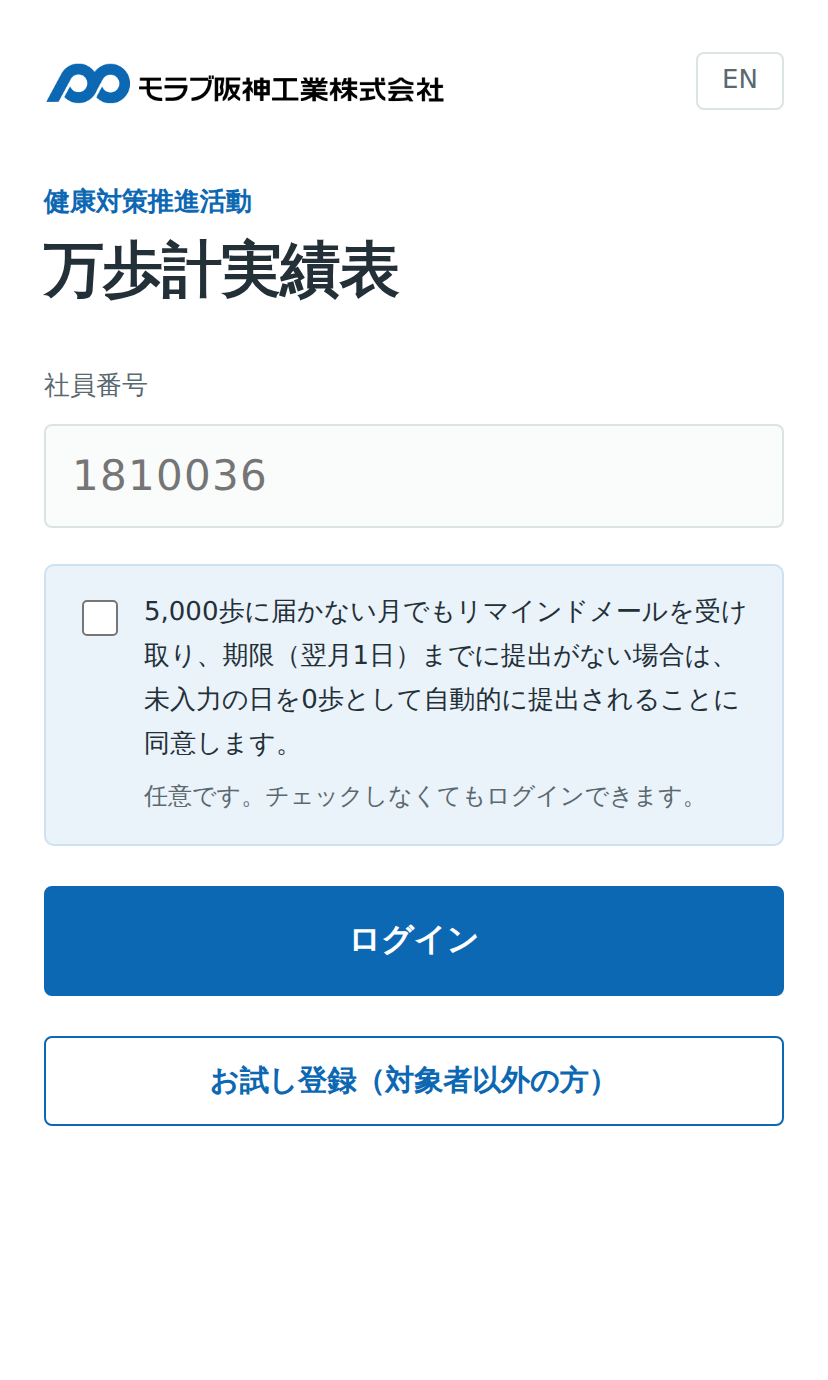
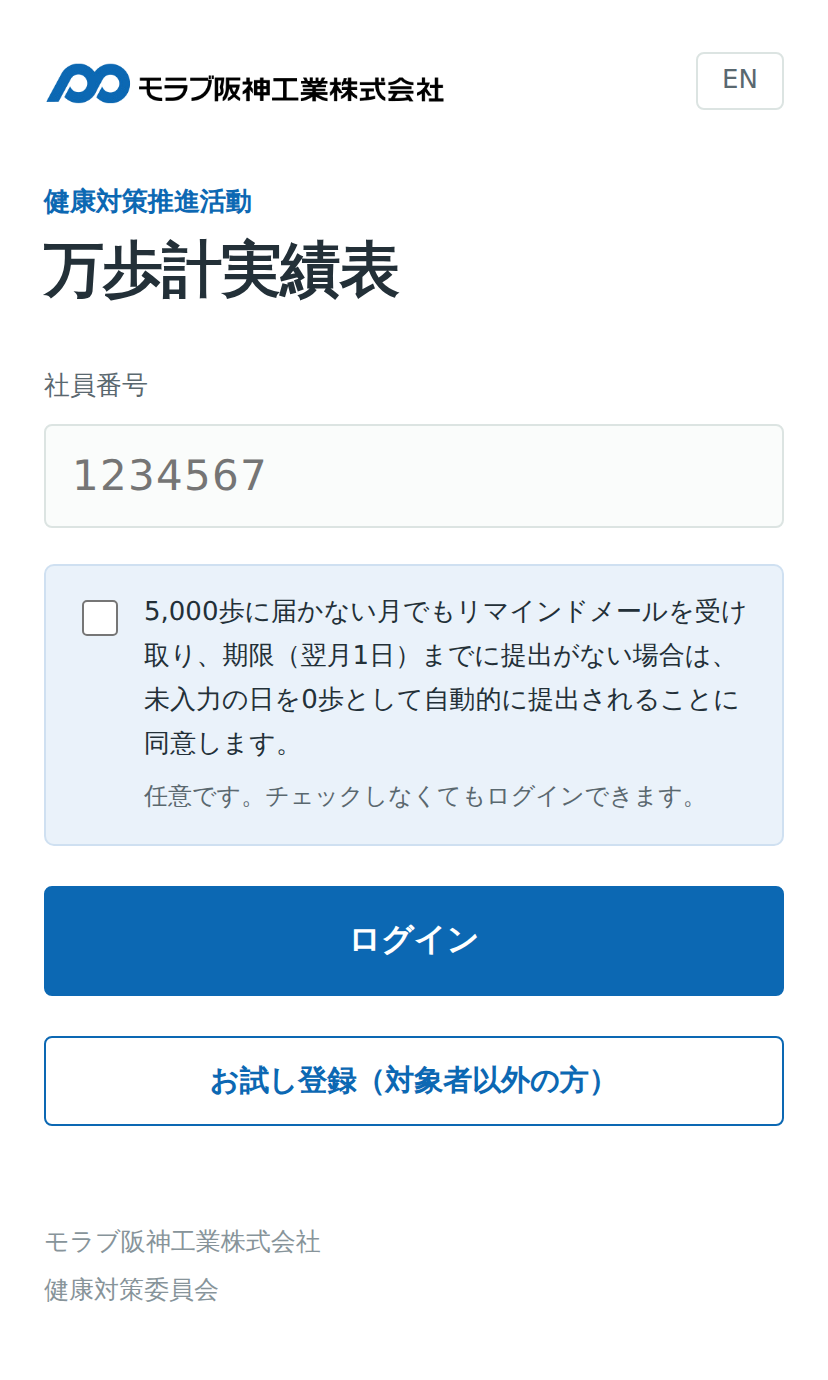
Retake the manual's login screenshot without the real employee number
The de-identification pass replaced the roster data in the screenshots
but missed this one: the number in the sign-in box is the input
placeholder, not roster data, so it kept showing a real colleague's
employee number. The placeholder in the app is now 1234567, so the
screenshot retaken against the current build carries that instead.

Also drops a README gap note that contradicted the demo-roster section
above it.

Claude-Session: https://claude.ai/code/session_01XMP6QTktT2ZH2brYbujzUP

Changed region(s): [[0.0604, 0.8725, 0.3925, 0.9659], [0.1208, 0.3116, 0.3321, 0.3739]]

diff --git a/manual/README.md b/manual/README.md
@@ -131,5 +131,3 @@ data.** Load the demo roster first:
   to be split into two — reminder email, and automatic submission — and that
   is on hold pending a discussion, so the app and the manual both still show
   one
-- The screenshots carry real names and addresses from the roster. Fine for an
-  internal document; worth remembering before it goes anywhere else
